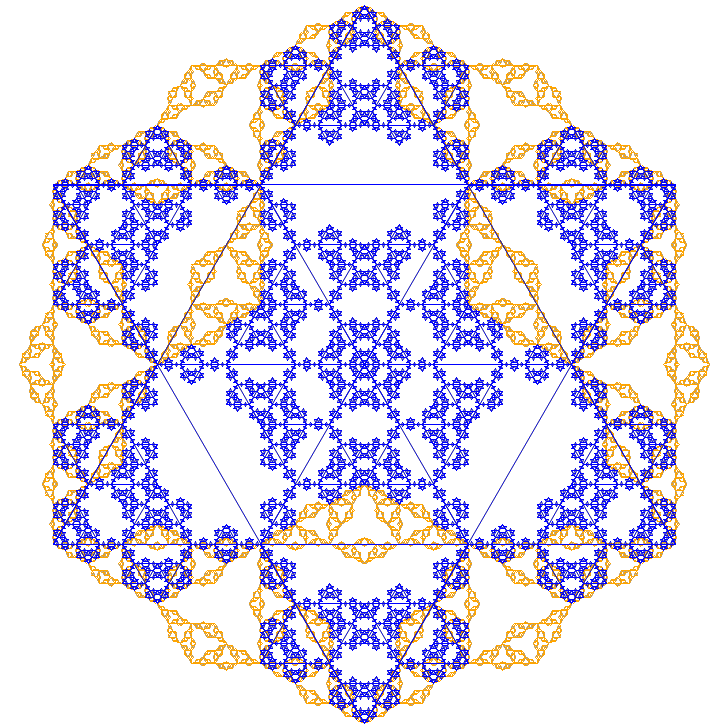
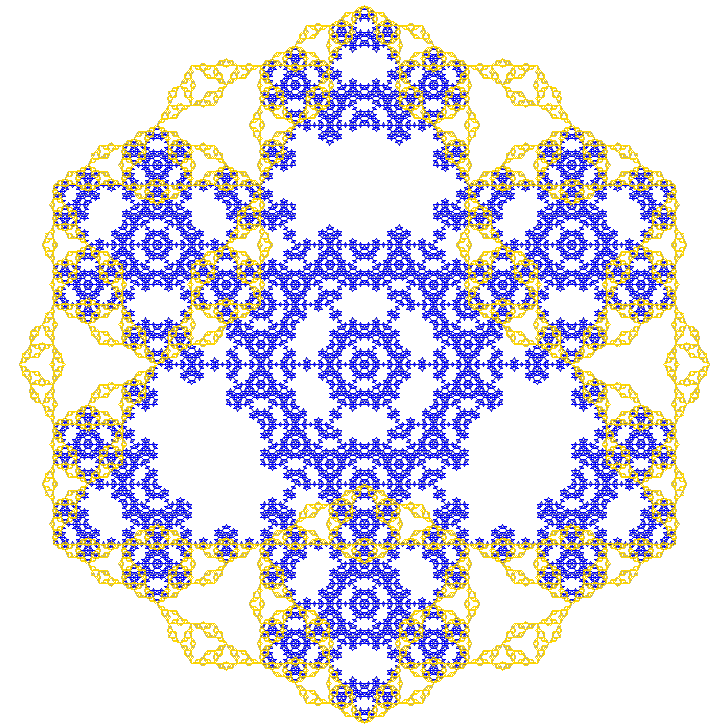
reflected2 layer, gold cave

Changed region(s): [[0.0302, 0.0, 0.967, 0.9973]]

diff --git a/rust/koch-snowflake/src/main.rs b/rust/koch-snowflake/src/main.rs
@@ -41,8 +41,8 @@ fn main() {
     koch_snowflake_cave2(&mut img_snowflake_cave2, (364f32, 364f32), 359f32, BLACK);
     img_snowflake_cave2.save("koch_snowflake_cave2.png").unwrap();
     let mut img_layered_rc = LayeredImage::from_pixels(728, 728, vec![TRANSPARENT, TRANSPARENT, WHITE]);
-    img_layered_rc.on_layer(0, |img| koch_snowflake_reflections(img, (364f32, 364f32), 359f32, BLUE));
-    img_layered_rc.on_layer(1, |img| koch_snowflake_cave(img, (364f32, 364f32), 359f32, ORANGE));
+    img_layered_rc.on_layer(1, |img| koch_snowflake_reflections2(img, (364f32, 364f32), 359f32, BLUE));
+    img_layered_rc.on_layer(0, |img| koch_snowflake_cave(img, (364f32, 364f32), 359f32, GOLD));
     img_layered_rc.save("koch_snowflake_layered_rc.png").unwrap();
 }
 

diff --git a/rust/koch-snowflake/src/draw.rs b/rust/koch-snowflake/src/draw.rs
@@ -13,7 +13,7 @@ pub const TRANSPARENT: Color = Rgba([0, 0, 0, 0]);
 pub const WHITE: Color = Rgba([255u8, 255u8, 255u8, 255u8]);
 pub const BLACK: Color = Rgba([0u8, 0u8, 0u8, 255u8]);
 pub const BLUE: Color = Rgba([0u8, 0u8, 255u8, 255u8]);
-pub const ORANGE: Color = Rgba([255u8, 165u8, 0u8, 255u8]);
+pub const GOLD: Color = Rgba([255u8, 215, 0u8, 255u8]);
 
 pub fn draw_line_segment_mut(img: &mut RgbaImage, a: Pos, b: Pos, c: Color) {
     draw_antialiased_line_segment_mut(img,
